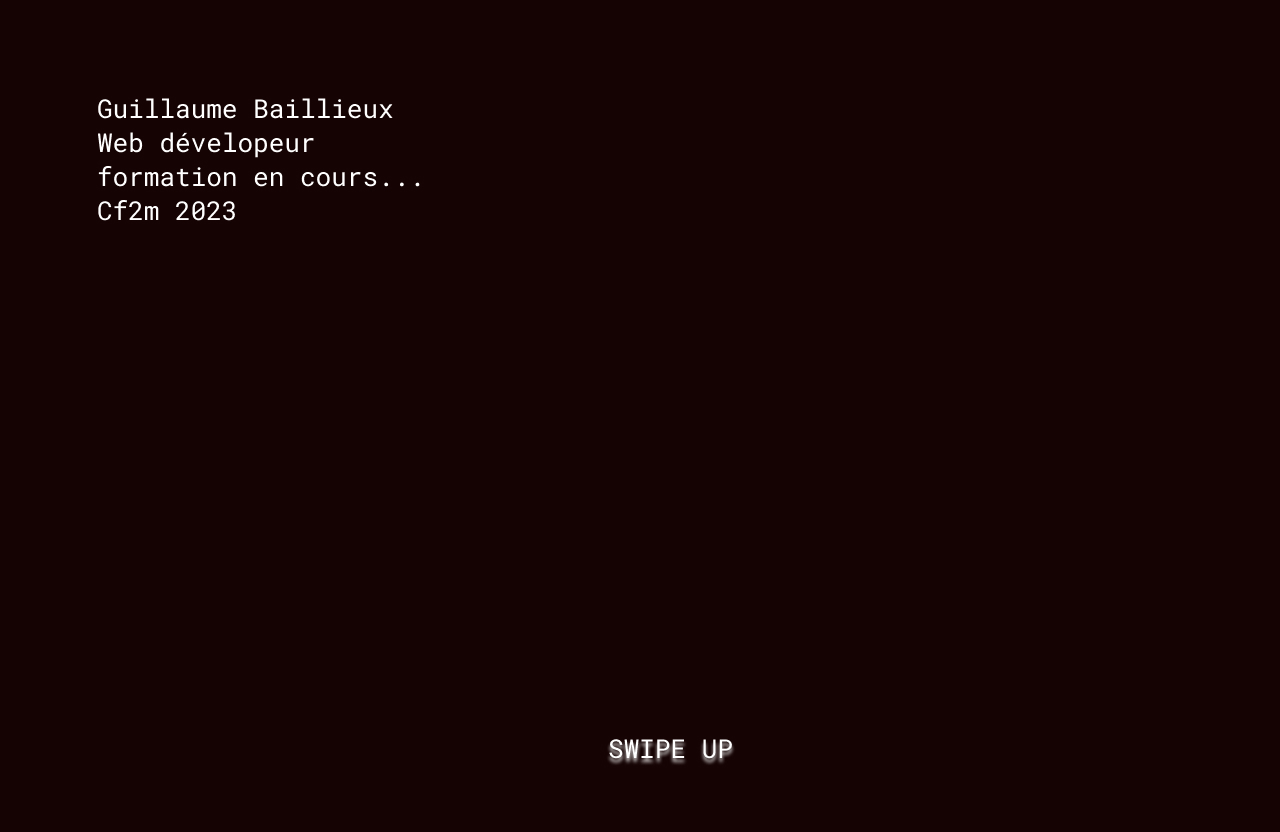
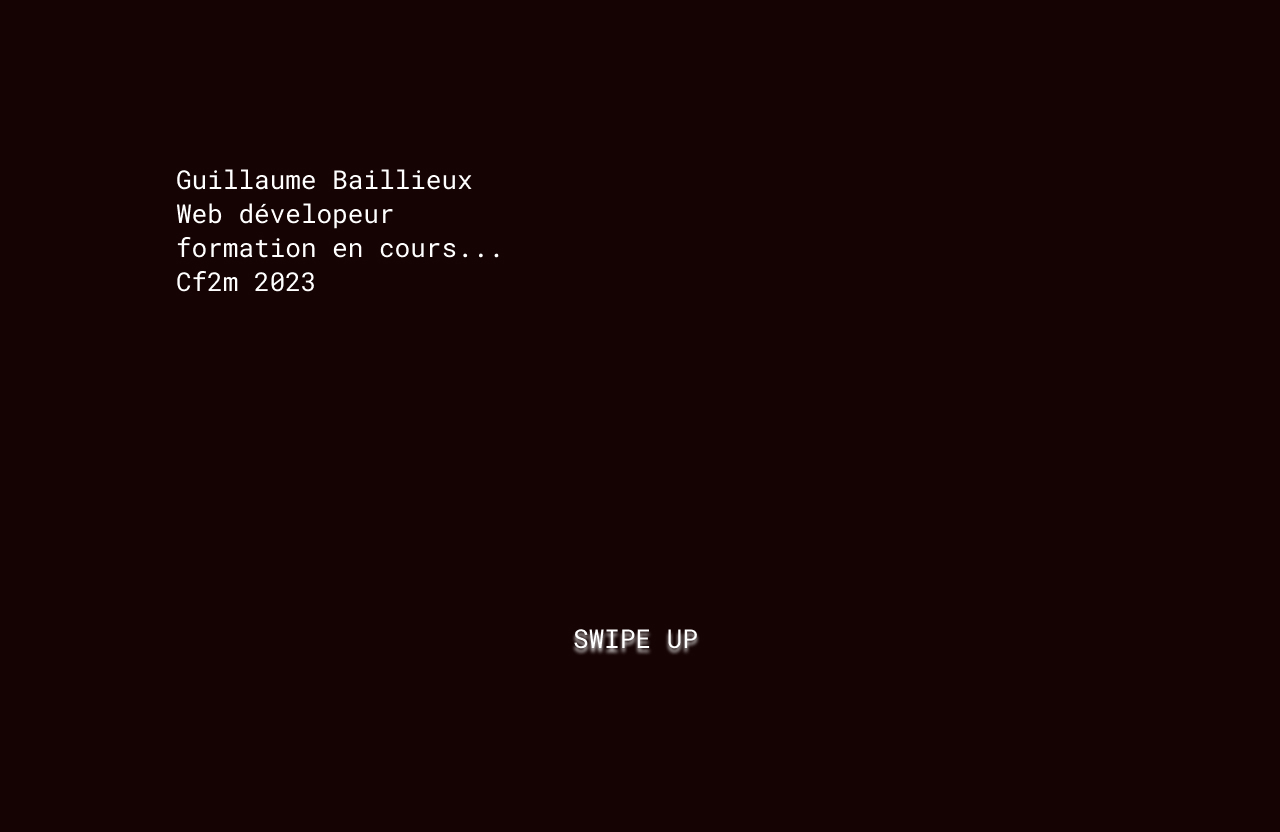
majcss

Changed region(s): [[0.0625, 0.125, 0.375, 0.3438], [0.4688, 0.875, 0.5938, 0.9375], [0.4375, 0.75, 0.5625, 0.7812]]

diff --git a/Public/css/style.css b/Public/css/style.css
@@ -49,7 +49,7 @@ html{
 
 .parallax {
     /* The image used */
-  background-image: url(../img/siteprefo.png);
+  background-image: url(../img/siteprefo2.jpg);
 
     /* Set a specific height */
     min-height: 780px;
@@ -104,9 +104,9 @@ background-image: url(../img/travaildinte.jpg);
     -webkit-text-stroke-color: rgb(58, 87, 248); /* couleur du contour de la typo */
     color: gold; /* couleur de la typo */
     text-align: center;
-    padding-top: 10px;
-    height: 100px; 
-    background-color: rgb(159, 51, 51); 
+    margin: 0;
+    padding: 0;
+    background-color: black;
     font-size: 56px
   }
 
